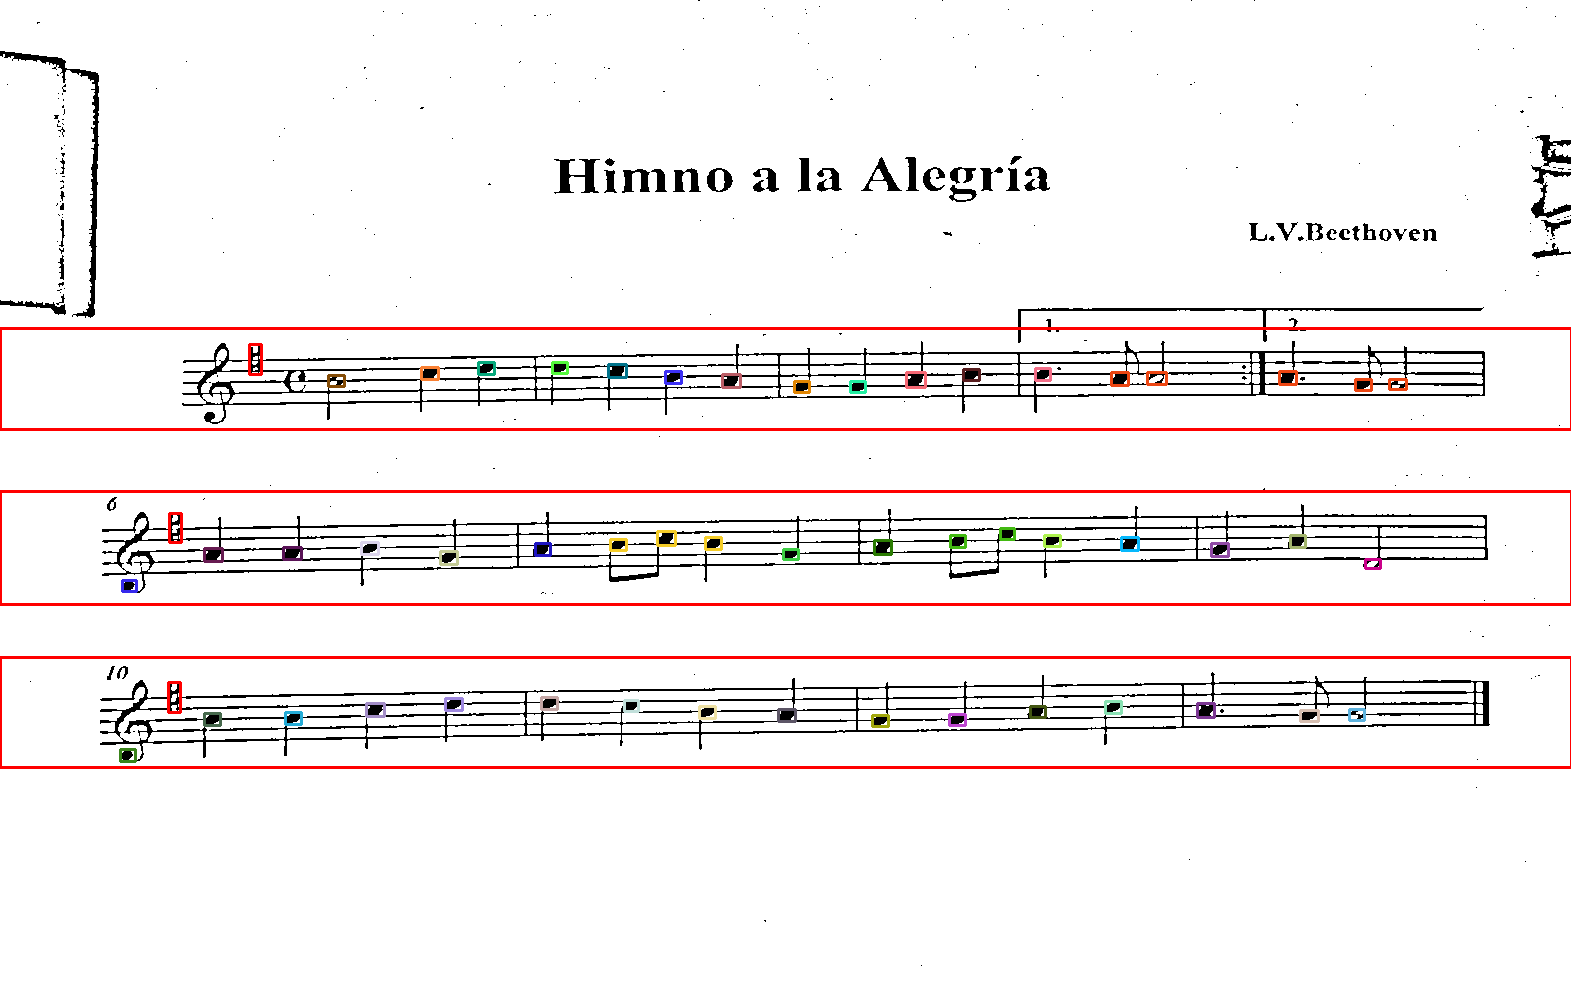
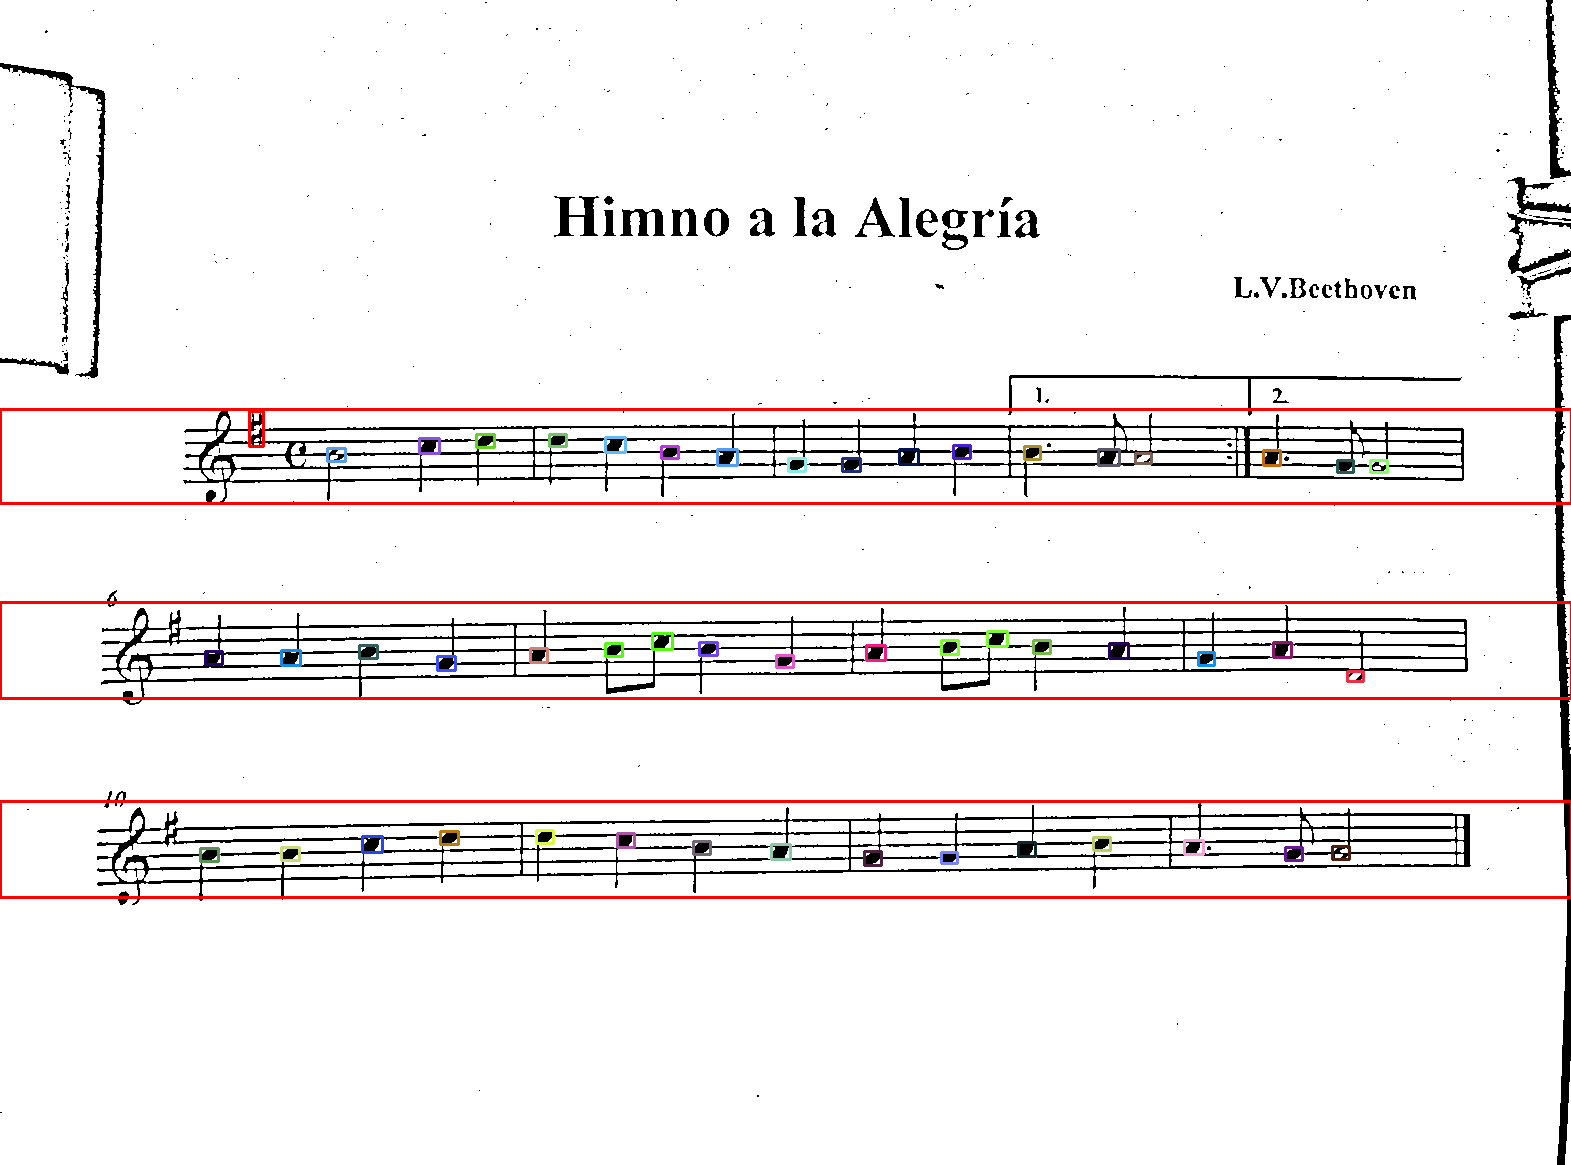
fixing seminotes

diff --git a/src/sheet_analyzer.py b/src/sheet_analyzer.py
@@ -31,8 +31,8 @@ rodona_imgs = [cv2.imread(f, 0) for f in rodona_files]
 penta_lower, penta_upper, penta_thresh = 50, 150, 0.77
 sost_lower, sost_upper, sost_thresh = 50, 150, 0.70
 bem_lower, bem_upper, bem_thresh = 50, 150, 0.77
-negra_lower, negra_upper, negra_thresh = 50, 150, 0.72
-blanca_lower, blanca_upper, blanca_thresh = 50, 150, 0.70
+negra_lower, negra_upper, negra_thresh = 50, 150, 0.73
+blanca_lower, blanca_upper, blanca_thresh = 50, 150, 0.68
 rodona_lower, rodona_upper, rodona_thresh = 50, 150, 0.70
 #################################################################
 
@@ -149,8 +149,7 @@ def analyze_sheet(img_gray, img, display=False, paralelize=False):
                 if len(note_group) > 0:
                     note_groups.append(note_group)
                     note_group = []
-                note_color = (randint(0, 255), randint(
-                    0, 255), randint(0, 255))
+                note_color = (randint(0, 255), randint(0, 255), randint(0, 255))
             else:
                 note_group.append(penta_notes[i])
                 penta_notes[i].rec.draw(img, note_color, 2)

diff --git a/main.py b/main.py
@@ -11,9 +11,9 @@ from src.arduino_comunication import ArduinoComunication
 
 if __name__ == '__main__':
     # Deal with arguments
-    sheet = None
+    sheet = "sheets/himne_alegria_photo.jpg"
     display = False
-    paralelize = False
+    paralelize = True
     mode = "bulk"
     reference = False 
 
@@ -97,12 +97,11 @@ if __name__ == '__main__':
     print("Distributing movements...")
     print("Notes: ", len(partiture.partiture))
     
-    '''kb = Keyboard(partiture)
+    kb = Keyboard(partiture)
     movements = kb.distribuite_movements(display)
 
     # Distribuite the movements
     moves = Movement_chain(movements)
-
 
     print("Algorithm time: ", time.time() - start)
 
@@ -112,7 +111,7 @@ if __name__ == '__main__':
     if mode == "streaming":
         arduino.send_move_by_move(moves.data)
     else:
-        arduino.send_full_data(moves.data)'''
+        arduino.send_full_data(moves.data)
 
 
 

diff --git a/src/partiture_std.py b/src/partiture_std.py
@@ -20,23 +20,21 @@ def undisort_img(img):
 
 
 def wrap_img(img):
-    ref_img = cv2.imread("sheets/himne_alegria_full.png")
-
-    # Get ref image size
-    h_ref, w_ref = ref_img.shape[:2]
+    # Get ref points
+    h_ref, w_ref = 1571, 1165
 
     # Define the corners of the source image
-    src = np.float32([[133, 126], [1823, 151], [25, 1458], [1953, 1458]])
+    src = np.float32([[124, 121], [1850, 129], [37, 1425], [1973, 1425]])
 
     # Define the corners of the destination image
     dst = np.float32(
-        [[0, 0], [w_ref, 0], [0, int(h_ref/2)], [w_ref, int(h_ref/2)]])
+        [[0, 0], [h_ref, 0], [0, w_ref], [h_ref, w_ref]])
 
     # Get the transformation matrix
     M = cv2.getPerspectiveTransform(src, dst)
 
     # Apply the transformation
-    dst = cv2.warpPerspective(img, M, (w_ref, int(h_ref/2)))
+    dst = cv2.warpPerspective(img, M, (h_ref, w_ref))
 
     return dst
 
